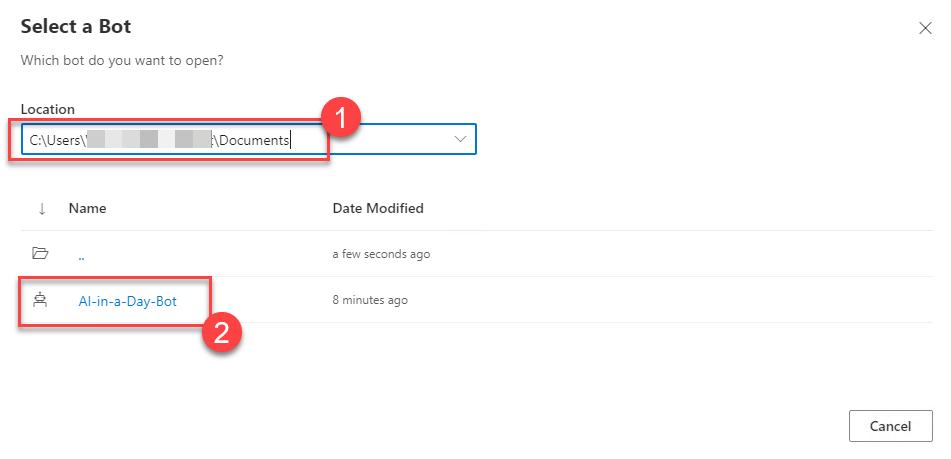
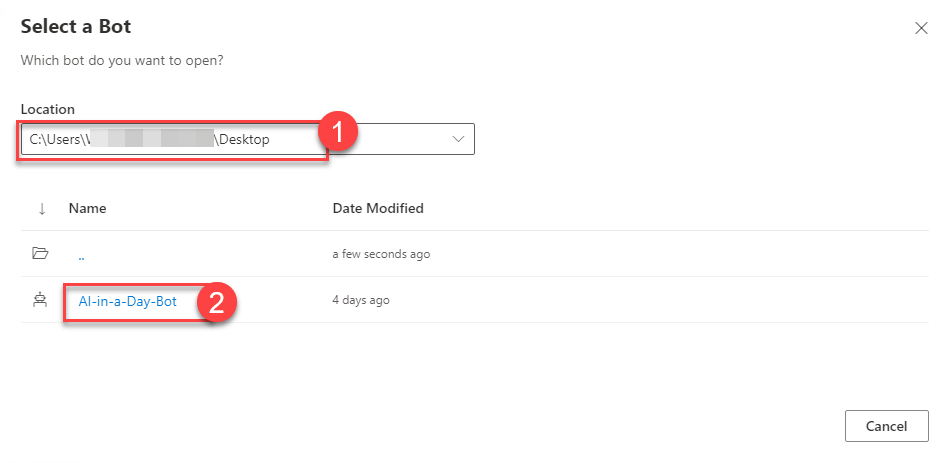
Moved started bot project download to the prelab steps.

diff --git a/05-conversational-ai/README.md b/05-conversational-ai/README.md
@@ -8,45 +8,41 @@ First, we will start with a prepopulate Azure Cognitive Search knowledge base en
 
 ## Task 1 - Setting Azure Cognitive Search for a Chatbot
 
-1. Download the starter [Bot project ZIP file](AI-in-a-Day-Bot.zip) to your **Documents** folder. Extract the contents of the ZIP file.
-
-![Zip file saved in Documents. Operating system context menu is open. Extracl all is highlighted.](media/extract-zip-file.png)
-
-2. Launch the **Bot Framework Composer (1)** from its shortcut on Desktop. Select **Open (2)** to load our starter project.
+1. Launch the **Bot Framework Composer (1)** from its shortcut on Desktop. Select **Open (2)** to load our starter project.
 
 ![Bot Framework is open. Open menu command is highlighted.](media/bot-composer-project-open.png)
 
-3. Navigate to your **Documents** folder **(1)**. Select the **AI-in-a-Day-Bot** by double clicking **(2)** on it.
+2. Navigate to your **Desktop** folder **(1)**. Select the **AI-in-a-Day-Bot** by double clicking **(2)** on it.
 
 ![Location is set to users documents folder. AI-in-a-Day-Bot project is highlighted.](media/bot-composer-project-open-2.png)
 
-4. In a Microsoft Edge web browser *(Do not close the Bot Framework Composer)*, navigate to the Azure portal (https://portal.azure.com) and login with your credentials. Then select **Resource groups**.
+3. In a Microsoft Edge web browser *(Do not close the Bot Framework Composer)*, navigate to the Azure portal (https://portal.azure.com) and login with your credentials. Then select **Resource groups**.
 
 ![Open Azure resource group](media/azure-open-resource-groups.png)
 
-5. Select the **AI-in-a-Day** resource group.
+4. Select the **AI-in-a-Day** resource group.
 
-6. Select the Azure Cognitive Search service.
+5. Select the Azure Cognitive Search service.
 
 ![Azure Cognitive Search service is highlighted from the list of services in the AI-in-a-Day Resource Group](media/select-azure-cognitive-search.png)
 
-7. Select **Indexes (1)** and observe the number of documents indexed in the **cognitive-index (2)**.
+6. Select **Indexes (1)** and observe the number of documents indexed in the **cognitive-index (2)**.
 
 ![Indexes tab is open and cognitive-index is highlighted.](media/azure-cognitive-search-index.png)
 
-8. Select **Search Explorer** to navigate to a web-based search experience where you can discover the data in the index.
+7. Select **Search Explorer** to navigate to a web-based search experience where you can discover the data in the index.
 
 ![Cognitive Search service is open. Search Explorer command is highlighted.](media/azure-cognitive-search-explorer.png)
 
-9. Select **Search (1)** to access a sample set of documents from the index. Scroll down and observe the data stored in the index. The values for the fields `people`, `organizations`, `locations`, and `keyphrases`, are created through the use of Azure Cognitive Services as part of the data enrichment process during data indexing.
+8. Select **Search (1)** to access a sample set of documents from the index. Scroll down and observe the data stored in the index. The values for the fields `people`, `organizations`, `locations`, and `keyphrases`, are created through the use of Azure Cognitive Services as part of the data enrichment process during data indexing.
 
 ![Showing a sample set of RAW documents from Azure Cognitive Search. People, organizations, locations and keyphrases fields are highlighted.](media/azure-cognitive-search-explorer-result.png)
 
-10. Close the **Search Explorer**. Navigate to the **Keys (1)** panel. Copy the primary admin key by selecting the copy command **(2)**.
+9. Close the **Search Explorer**. Navigate to the **Keys (1)** panel. Copy the primary admin key by selecting the copy command **(2)**.
 
 ![Azure Cognitive Search service page is open. Keys tab is shown. Primary admin key copy command is highlighted.](media/azure-cognitive-search-key.png)
 
-11. Now it's time to change the access keys used in our starter Bot to use our Azure Cognitive Search service. Go back to the Bot Framework Composer. Select **Greeting** trigger **(1)**. From the design, surface select the first **Set a property** activity **(2)**. You will see a **Value** field **(3)** on the right panel. We have to change the value with the primary admin key we have copied from the Azure Portal. 
+10. Now it's time to change the access keys used in our starter Bot to use our Azure Cognitive Search service. Go back to the Bot Framework Composer. Select **Greeting** trigger **(1)**. From the design, surface select the first **Set a property** activity **(2)**. You will see a **Value** field **(3)** on the right panel. We have to change the value with the primary admin key we have copied from the Azure Portal. 
 
 ![Bot Framework Composer is on screen. Greeting trigger is selected. Set a property activity is selected. The value field on the right panel is highlighted.](media/starter-bot-key-change.png)
 

diff --git a/00-setup-workspace.md b/00-setup-workspace.md
@@ -21,4 +21,6 @@
 
 2.  Install [Bot Framework Emulator](https://github.com/microsoft/BotFramework-Emulator/releases/latest) and make sure the shortcut for the Bot Framework Emulator in on desktop.
 
-2. Install [Bot Framework Composer](https://docs.microsoft.com/en-us/composer/install-composer) and make sure the shortcut for the Bot Framework Emulator in on desktop.
+3. Install [Bot Framework Composer](https://docs.microsoft.com/en-us/composer/install-composer) and make sure the shortcut for the Bot Framework Emulator in on desktop.
+
+4. Copy the [starter Bot project source code](05-conversational-ai/AI-in-a-Day-Bot.zip) onto the desktop. Extract the contents to the desktop and delete the ZIP file. This file has to be downloaded every time a new VM is provisioned to ensure changes in the started project files in GitHub are reflected in newly provisioned environments.
